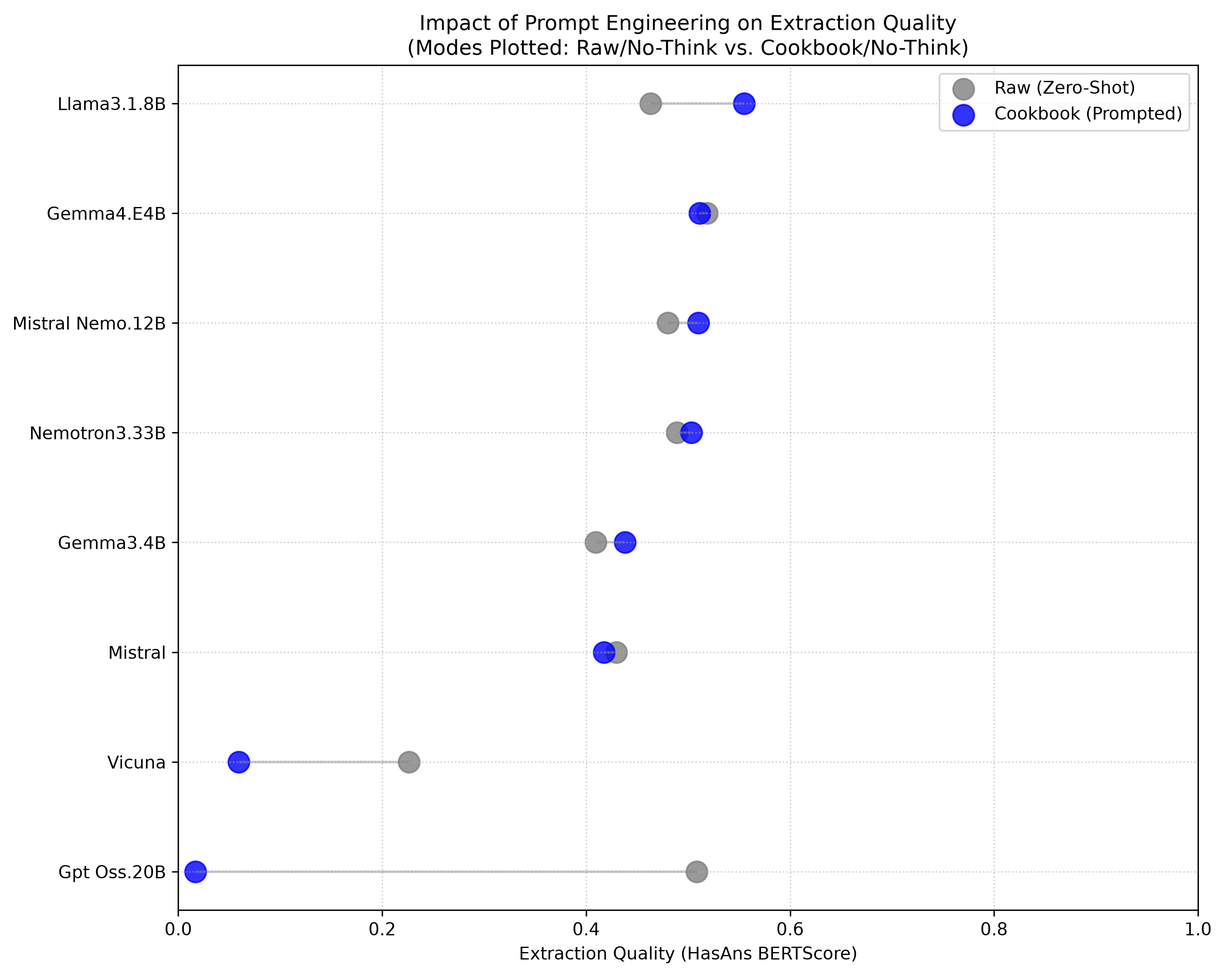
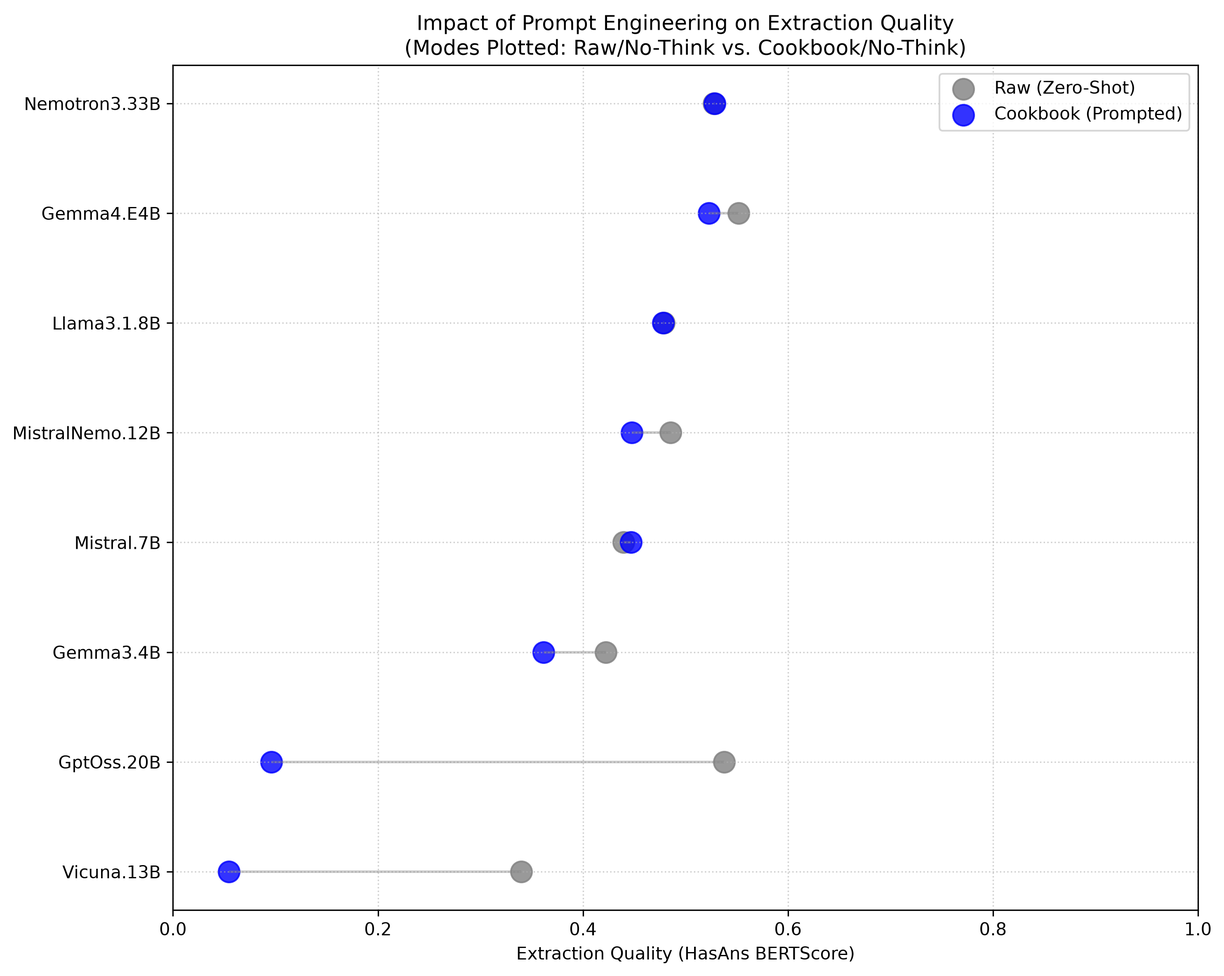
Refresh evaluation report and figures

diff --git a/evaluation/evaluation_report.md b/evaluation/evaluation_report.md
@@ -1,91 +1,91 @@
 # LLM Evaluation Report
 **Total Models Evaluated:** 8
 **Total Documents Processed:** 1860
-**Full Evaluation Compute Time:** 310.71 seconds
+**Full Evaluation Compute Time:** 1333.02 seconds
 
 ## Part 1: Global Benchmark Leaderboard (SQuAD 2.0 Evaluation)
 > *All text metrics formatted as (Overall / HasAns)*
 
-| Model            | Method        |   Doc Count |   Abstention (NoAns) |   Missed Answer Rate | Span F1 (Overall / HasAns)   | Labeled Span F1 (Overall / HasAns)   | SQuAD Token F1 (Overall / HasAns)   | BERTScore (Overall / HasAns)   |
-|:-----------------|:--------------|------------:|---------------------:|---------------------:|:-----------------------------|:-------------------------------------|:------------------------------------|:-------------------------------|
-| Gpt Oss.20B      | Raw (T)       |        1860 |                 0.01 |                 0    | 0.19 / 0.38                  | 0.19 / 0.38                          | 0.25 / 0.49                         | 0.26 / 0.51                    |
-|                  | Raw (NT)      |        1860 |                 0.64 |                 0.02 | 0.51 / 0.38                  | 0.51 / 0.38                          | 0.56 / 0.49                         | 0.57 / 0.51                    |
-|                  | Cookbook (T)  |        1860 |                 0    |                 0    | 0.00 / 0.01                  | 0.00 / 0.01                          | 0.00 / 0.01                         | 0.01 / 0.01                    |
-|                  | Cookbook (NT) |        1860 |                 0    |                 0    | 0.00 / 0.01                  | 0.00 / 0.01                          | 0.01 / 0.01                         | 0.01 / 0.02                    |
-| Gemma4.E4B       | Raw (T)       |        1860 |                 0.01 |                 0    | 0.19 / 0.37                  | 0.19 / 0.37                          | 0.24 / 0.48                         | 0.25 / 0.50                    |
-|                  | Raw (NT)      |        1860 |                 0.66 |                 0.04 | 0.53 / 0.39                  | 0.53 / 0.39                          | 0.58 / 0.51                         | 0.59 / 0.52                    |
-|                  | Cookbook (T)  |        1860 |                 0    |                 0    | 0.18 / 0.36                  | 0.18 / 0.36                          | 0.24 / 0.48                         | 0.24 / 0.49                    |
-|                  | Cookbook (NT) |        1860 |                 0    |                 0    | 0.19 / 0.39                  | 0.19 / 0.39                          | 0.25 / 0.50                         | 0.25 / 0.51                    |
-| Mistral Nemo.12B | Raw (NT)      |        1860 |                 0.59 |                 0.06 | 0.48 / 0.37                  | 0.48 / 0.37                          | 0.52 / 0.46                         | 0.54 / 0.48                    |
-|                  | Cookbook (NT) |        1860 |                 0.67 |                 0.08 | 0.52 / 0.38                  | 0.52 / 0.37                          | 0.58 / 0.49                         | 0.59 / 0.51                    |
-| Llama3.1.8B      | Raw (NT)      |        1860 |                 0.31 |                 0    | 0.33 / 0.35                  | 0.33 / 0.35                          | 0.38 / 0.44                         | 0.39 / 0.46                    |
-|                  | Cookbook (NT) |        1860 |                 0.02 |                 0    | 0.22 / 0.41                  | 0.21 / 0.40                          | 0.28 / 0.53                         | 0.29 / 0.55                    |
-| Mistral          | Raw (NT)      |        1860 |                 0.53 |                 0.05 | 0.43 / 0.32                  | 0.43 / 0.32                          | 0.47 / 0.41                         | 0.48 / 0.43                    |
-|                  | Cookbook (NT) |        1860 |                 0.38 |                 0.02 | 0.34 / 0.31                  | 0.34 / 0.31                          | 0.39 / 0.41                         | 0.40 / 0.42                    |
-| Gemma3.4B        | Raw (NT)      |        1860 |                 0.01 |                 0    | 0.15 / 0.30                  | 0.15 / 0.30                          | 0.20 / 0.39                         | 0.21 / 0.41                    |
-|                  | Cookbook (NT) |        1860 |                 0    |                 0    | 0.16 / 0.33                  | 0.16 / 0.33                          | 0.21 / 0.42                         | 0.22 / 0.44                    |
-| Vicuna           | Raw (NT)      |        1860 |                 0.48 |                 0.07 | 0.33 / 0.18                  | 0.33 / 0.18                          | 0.36 / 0.23                         | 0.35 / 0.23                    |
-|                  | Cookbook (NT) |        1860 |                 0.02 |                 0.01 | 0.03 / 0.04                  | 0.02 / 0.03                          | 0.04 / 0.07                         | 0.04 / 0.06                    |
-| Nemotron3.33B    | Raw (T)       |        1860 |                 0    |                 0    | 0.00 / 0.00                  | 0.00 / 0.00                          | 0.00 / 0.00                         | 0.00 / 0.00                    |
-|                  | Raw (NT)      |        1860 |                 0.66 |                 0.06 | 0.52 / 0.38                  | 0.52 / 0.38                          | 0.57 / 0.47                         | 0.57 / 0.49                    |
-|                  | Cookbook (T)  |        1860 |                 0    |                 0    | 0.18 / 0.36                  | 0.18 / 0.36                          | 0.25 / 0.50                         | 0.25 / 0.50                    |
-|                  | Cookbook (NT) |        1860 |                 0.01 |                 0    | 0.18 / 0.36                  | 0.18 / 0.36                          | 0.25 / 0.50                         | 0.25 / 0.50                    |
+| Model           | Method        |   Doc Count |   Abstention (NoAns) |   Missed Answer Rate | Span F1 (Overall / HasAns)   | Labeled Span F1 (Overall / HasAns)   | SQuAD Token F1 (Overall / HasAns)   | BERTScore (Overall / HasAns)   |
+|:----------------|:--------------|------------:|---------------------:|---------------------:|:-----------------------------|:-------------------------------------|:------------------------------------|:-------------------------------|
+| Gemma4.E4B      | Raw (T)       |        1860 |                 0.68 |                 0.04 | 0.58 / 0.48                  | 0.57 / 0.46                          | 0.61 / 0.54                         | 0.61 / 0.54                    |
+|                 | Raw (NT)      |        1860 |                 0.4  |                 0.01 | 0.44 / 0.49                  | 0.43 / 0.47                          | 0.48 / 0.55                         | 0.48 / 0.55                    |
+|                 | Cookbook (T)  |        1860 |                 0.5  |                 0.02 | 0.47 / 0.44                  | 0.46 / 0.42                          | 0.50 / 0.50                         | 0.50 / 0.50                    |
+|                 | Cookbook (NT) |        1860 |                 0.48 |                 0.02 | 0.47 / 0.46                  | 0.46 / 0.45                          | 0.50 / 0.52                         | 0.50 / 0.52                    |
+| Nemotron3.33B   | Raw (T)       |        1860 |                 0.58 |                 0.01 | 0.52 / 0.45                  | 0.51 / 0.44                          | 0.55 / 0.53                         | 0.56 / 0.54                    |
+|                 | Raw (NT)      |        1860 |                 0.38 |                 0.01 | 0.42 / 0.46                  | 0.41 / 0.44                          | 0.45 / 0.53                         | 0.45 / 0.53                    |
+|                 | Cookbook (T)  |        1860 |                 0.67 |                 0.02 | 0.55 / 0.43                  | 0.54 / 0.42                          | 0.58 / 0.50                         | 0.58 / 0.50                    |
+|                 | Cookbook (NT) |        1860 |                 0.56 |                 0.01 | 0.51 / 0.45                  | 0.50 / 0.44                          | 0.54 / 0.53                         | 0.54 / 0.53                    |
+| GptOss.20B      | Raw (T)       |        1860 |                 0.65 |                 0.02 | 0.55 / 0.45                  | 0.55 / 0.45                          | 0.58 / 0.51                         | 0.59 / 0.54                    |
+|                 | Raw (NT)      |        1860 |                 0.63 |                 0.01 | 0.54 / 0.45                  | 0.54 / 0.44                          | 0.57 / 0.51                         | 0.58 / 0.54                    |
+|                 | Cookbook (T)  |        1860 |                 0.63 |                 0.02 | 0.36 / 0.08                  | 0.33 / 0.02                          | 0.36 / 0.10                         | 0.36 / 0.09                    |
+|                 | Cookbook (NT) |        1860 |                 0.65 |                 0.02 | 0.36 / 0.08                  | 0.33 / 0.02                          | 0.38 / 0.10                         | 0.37 / 0.10                    |
+| MistralNemo.12B | Raw (NT)      |        1860 |                 0.57 |                 0.04 | 0.50 / 0.43                  | 0.50 / 0.42                          | 0.52 / 0.47                         | 0.53 / 0.49                    |
+|                 | Cookbook (NT) |        1860 |                 0.55 |                 0.04 | 0.46 / 0.38                  | 0.46 / 0.37                          | 0.49 / 0.44                         | 0.50 / 0.45                    |
+| Llama3.1.8B     | Raw (NT)      |        1860 |                 0.02 |                 0    | 0.21 / 0.39                  | 0.20 / 0.38                          | 0.25 / 0.48                         | 0.25 / 0.48                    |
+|                 | Cookbook (NT) |        1860 |                 0.04 |                 0    | 0.21 / 0.39                  | 0.21 / 0.38                          | 0.26 / 0.48                         | 0.26 / 0.48                    |
+| Mistral.7B      | Raw (NT)      |        1860 |                 0.55 |                 0.06 | 0.46 / 0.38                  | 0.46 / 0.37                          | 0.49 / 0.43                         | 0.49 / 0.44                    |
+|                 | Cookbook (NT) |        1860 |                 0.52 |                 0.04 | 0.45 / 0.38                  | 0.44 / 0.37                          | 0.48 / 0.44                         | 0.48 / 0.45                    |
+| Gemma3.4B       | Raw (NT)      |        1860 |                 0.01 |                 0.03 | 0.18 / 0.34                  | 0.17 / 0.33                          | 0.21 / 0.42                         | 0.22 / 0.42                    |
+|                 | Cookbook (NT) |        1860 |                 0.1  |                 0.02 | 0.18 / 0.27                  | 0.18 / 0.27                          | 0.21 / 0.33                         | 0.23 / 0.36                    |
+| Vicuna.13B      | Raw (NT)      |        1860 |                 0.28 |                 0.03 | 0.28 / 0.29                  | 0.28 / 0.27                          | 0.31 / 0.34                         | 0.31 / 0.34                    |
+|                 | Cookbook (NT) |        1860 |                 0.01 |                 0    | 0.03 / 0.04                  | 0.02 / 0.03                          | 0.03 / 0.05                         | 0.03 / 0.05                    |
 
 ---
 
 ## Part 2: Task Complexity Breakdown
 
 ### Question 1 Leaderboard
-| Model            | Method        |   Doc Count |   Abstention (NoAns) |   Missed Answer Rate | Span F1 (Overall / HasAns)   | Labeled Span F1 (Overall / HasAns)   | SQuAD Token F1 (Overall / HasAns)   | BERTScore (Overall / HasAns)   |
-|:-----------------|:--------------|------------:|---------------------:|---------------------:|:-----------------------------|:-------------------------------------|:------------------------------------|:-------------------------------|
-| Gpt Oss.20B      | Raw (T)       |         954 |                 0.06 |                    0 | 0.38 / 0.46                  | 0.38 / 0.46                          | 0.49 / 0.59                         | 0.51 / 0.62                    |
-|                  | Raw (NT)      |         954 |                 0.03 |                    0 | 0.37 / 0.46                  | 0.37 / 0.46                          | 0.48 / 0.59                         | 0.50 / 0.62                    |
-|                  | Cookbook (T)  |         954 |                 0    |                    0 | 0.01 / 0.01                  | 0.01 / 0.01                          | 0.01 / 0.01                         | 0.01 / 0.02                    |
-|                  | Cookbook (NT) |         954 |                 0    |                    0 | 0.01 / 0.01                  | 0.01 / 0.01                          | 0.01 / 0.02                         | 0.02 / 0.02                    |
-| Gemma4.E4B       | Raw (T)       |         954 |                 0.03 |                    0 | 0.37 / 0.45                  | 0.37 / 0.45                          | 0.48 / 0.59                         | 0.49 / 0.61                    |
-|                  | Raw (NT)      |         954 |                 0.08 |                    0 | 0.40 / 0.48                  | 0.40 / 0.48                          | 0.51 / 0.62                         | 0.52 / 0.63                    |
-|                  | Cookbook (T)  |         954 |                 0    |                    0 | 0.35 / 0.44                  | 0.35 / 0.44                          | 0.46 / 0.58                         | 0.47 / 0.59                    |
-|                  | Cookbook (NT) |         954 |                 0    |                    0 | 0.37 / 0.47                  | 0.37 / 0.47                          | 0.49 / 0.61                         | 0.50 / 0.62                    |
-| Mistral Nemo.12B | Raw (NT)      |         954 |                 0.04 |                    0 | 0.37 / 0.45                  | 0.37 / 0.45                          | 0.45 / 0.55                         | 0.48 / 0.58                    |
-|                  | Cookbook (NT) |         954 |                 0.05 |                    0 | 0.35 / 0.43                  | 0.35 / 0.43                          | 0.45 / 0.55                         | 0.47 / 0.58                    |
-| Llama3.1.8B      | Raw (NT)      |         954 |                 0    |                    0 | 0.34 / 0.42                  | 0.34 / 0.42                          | 0.43 / 0.54                         | 0.45 / 0.56                    |
-|                  | Cookbook (NT) |         954 |                 0    |                    0 | 0.34 / 0.42                  | 0.34 / 0.42                          | 0.43 / 0.54                         | 0.45 / 0.56                    |
-| Mistral          | Raw (NT)      |         954 |                 0    |                    0 | 0.31 / 0.39                  | 0.31 / 0.39                          | 0.40 / 0.50                         | 0.42 / 0.52                    |
-|                  | Cookbook (NT) |         954 |                 0.02 |                    0 | 0.31 / 0.38                  | 0.31 / 0.38                          | 0.40 / 0.49                         | 0.41 / 0.51                    |
-| Gemma3.4B        | Raw (NT)      |         954 |                 0    |                    0 | 0.29 / 0.36                  | 0.29 / 0.36                          | 0.38 / 0.48                         | 0.40 / 0.50                    |
-|                  | Cookbook (NT) |         954 |                 0    |                    0 | 0.32 / 0.40                  | 0.32 / 0.40                          | 0.41 / 0.51                         | 0.43 / 0.53                    |
-| Vicuna           | Raw (NT)      |         954 |                 0    |                    0 | 0.17 / 0.22                  | 0.17 / 0.22                          | 0.23 / 0.28                         | 0.22 / 0.28                    |
-|                  | Cookbook (NT) |         954 |                 0    |                    0 | 0.02 / 0.03                  | 0.02 / 0.03                          | 0.04 / 0.05                         | 0.03 / 0.04                    |
-| Nemotron3.33B    | Raw (T)       |         954 |                 0    |                    0 | 0.00 / 0.00                  | 0.00 / 0.00                          | 0.00 / 0.00                         | 0.00 / 0.00                    |
-|                  | Raw (NT)      |         954 |                 0    |                    0 | 0.37 / 0.46                  | 0.37 / 0.46                          | 0.46 / 0.58                         | 0.47 / 0.59                    |
-|                  | Cookbook (T)  |         954 |                 0    |                    0 | 0.35 / 0.43                  | 0.35 / 0.43                          | 0.48 / 0.60                         | 0.49 / 0.61                    |
-|                  | Cookbook (NT) |         954 |                 0.04 |                    0 | 0.36 / 0.44                  | 0.36 / 0.44                          | 0.49 / 0.60                         | 0.50 / 0.61                    |
+| Model           | Method        |   Doc Count |   Abstention (NoAns) |   Missed Answer Rate | Span F1 (Overall / HasAns)   | Labeled Span F1 (Overall / HasAns)   | SQuAD Token F1 (Overall / HasAns)   | BERTScore (Overall / HasAns)   |
+|:----------------|:--------------|------------:|---------------------:|---------------------:|:-----------------------------|:-------------------------------------|:------------------------------------|:-------------------------------|
+| Gemma4.E4B      | Raw (T)       |         954 |                 0.27 |                 0    | 0.45 / 0.50                  | 0.45 / 0.50                          | 0.51 / 0.56                         | 0.50 / 0.56                    |
+|                 | Raw (NT)      |         954 |                 0.11 |                 0    | 0.42 / 0.49                  | 0.42 / 0.49                          | 0.47 / 0.56                         | 0.47 / 0.56                    |
+|                 | Cookbook (T)  |         954 |                 0.01 |                 0    | 0.36 / 0.44                  | 0.36 / 0.44                          | 0.40 / 0.50                         | 0.40 / 0.50                    |
+|                 | Cookbook (NT) |         954 |                 0.1  |                 0    | 0.40 / 0.48                  | 0.40 / 0.48                          | 0.45 / 0.54                         | 0.45 / 0.54                    |
+| Nemotron3.33B   | Raw (T)       |         954 |                 0.06 |                 0    | 0.37 / 0.45                  | 0.37 / 0.45                          | 0.43 / 0.52                         | 0.44 / 0.54                    |
+|                 | Raw (NT)      |         954 |                 0.01 |                 0    | 0.39 / 0.48                  | 0.39 / 0.48                          | 0.43 / 0.54                         | 0.43 / 0.54                    |
+|                 | Cookbook (T)  |         954 |                 0.02 |                 0    | 0.36 / 0.44                  | 0.36 / 0.44                          | 0.42 / 0.52                         | 0.42 / 0.52                    |
+|                 | Cookbook (NT) |         954 |                 0.01 |                 0    | 0.36 / 0.44                  | 0.36 / 0.44                          | 0.42 / 0.52                         | 0.42 / 0.52                    |
+| GptOss.20B      | Raw (T)       |         954 |                 0.12 |                 0    | 0.38 / 0.44                  | 0.38 / 0.44                          | 0.42 / 0.50                         | 0.45 / 0.53                    |
+|                 | Raw (NT)      |         954 |                 0.09 |                 0    | 0.37 / 0.44                  | 0.37 / 0.44                          | 0.41 / 0.49                         | 0.44 / 0.53                    |
+|                 | Cookbook (T)  |         954 |                 0    |                 0    | 0.00 / 0.01                  | 0.00 / 0.01                          | 0.01 / 0.01                         | 0.01 / 0.01                    |
+|                 | Cookbook (NT) |         954 |                 0    |                 0    | 0.01 / 0.01                  | 0.01 / 0.01                          | 0.01 / 0.01                         | 0.01 / 0.02                    |
+| MistralNemo.12B | Raw (NT)      |         954 |                 0.02 |                 0    | 0.36 / 0.45                  | 0.36 / 0.45                          | 0.40 / 0.50                         | 0.41 / 0.51                    |
+|                 | Cookbook (NT) |         954 |                 0    |                 0    | 0.31 / 0.39                  | 0.31 / 0.39                          | 0.37 / 0.46                         | 0.37 / 0.47                    |
+| Llama3.1.8B     | Raw (NT)      |         954 |                 0    |                 0    | 0.31 / 0.39                  | 0.31 / 0.39                          | 0.39 / 0.48                         | 0.38 / 0.48                    |
+|                 | Cookbook (NT) |         954 |                 0.01 |                 0    | 0.31 / 0.39                  | 0.31 / 0.39                          | 0.39 / 0.48                         | 0.38 / 0.48                    |
+| Mistral.7B      | Raw (NT)      |         954 |                 0.01 |                 0    | 0.33 / 0.41                  | 0.33 / 0.41                          | 0.37 / 0.46                         | 0.38 / 0.47                    |
+|                 | Cookbook (NT) |         954 |                 0    |                 0    | 0.33 / 0.41                  | 0.33 / 0.41                          | 0.37 / 0.47                         | 0.38 / 0.47                    |
+| Gemma3.4B       | Raw (NT)      |         954 |                 0.05 |                 0.04 | 0.28 / 0.33                  | 0.28 / 0.33                          | 0.33 / 0.41                         | 0.34 / 0.41                    |
+|                 | Cookbook (NT) |         954 |                 0    |                 0    | 0.26 / 0.32                  | 0.26 / 0.32                          | 0.32 / 0.40                         | 0.33 / 0.41                    |
+| Vicuna.13B      | Raw (NT)      |         954 |                 0.01 |                 0.01 | 0.24 / 0.29                  | 0.24 / 0.29                          | 0.27 / 0.34                         | 0.28 / 0.34                    |
+|                 | Cookbook (NT) |         954 |                 0    |                 0    | 0.02 / 0.03                  | 0.02 / 0.03                          | 0.03 / 0.04                         | 0.03 / 0.04                    |
 
 ### Question 2 Leaderboard
-| Model            | Method        |   Doc Count |   Abstention (NoAns) |   Missed Answer Rate | Span F1 (Overall / HasAns)   | Labeled Span F1 (Overall / HasAns)   | SQuAD Token F1 (Overall / HasAns)   | BERTScore (Overall / HasAns)   |
-|:-----------------|:--------------|------------:|---------------------:|---------------------:|:-----------------------------|:-------------------------------------|:------------------------------------|:-------------------------------|
-| Gemma3.4B        | Raw (NT)      |         906 |                 0.01 |                 0    | 0.01 / 0.00                  | 0.01 / 0.00                          | 0.01 / 0.00                         | 0.01 / 0.00                    |
-|                  | Cookbook (NT) |         906 |                 0    |                 0    | 0.00 / 0.00                  | 0.00 / 0.00                          | 0.00 / 0.00                         | 0.00 / 0.00                    |
-| Gemma4.E4B       | Raw (T)       |         906 |                 0    |                 0    | 0.00 / 0.00                  | 0.00 / 0.00                          | 0.00 / 0.00                         | 0.00 / 0.00                    |
-|                  | Raw (NT)      |         906 |                 0.8  |                 0.23 | 0.66 / 0.00                  | 0.66 / 0.00                          | 0.66 / 0.00                         | 0.66 / 0.00                    |
-|                  | Cookbook (T)  |         906 |                 0    |                 0    | 0.00 / 0.00                  | 0.00 / 0.00                          | 0.00 / 0.00                         | 0.00 / 0.00                    |
-|                  | Cookbook (NT) |         906 |                 0    |                 0    | 0.00 / 0.00                  | 0.00 / 0.00                          | 0.00 / 0.00                         | 0.00 / 0.00                    |
-| Gpt Oss.20B      | Raw (T)       |         906 |                 0    |                 0    | 0.00 / 0.00                  | 0.00 / 0.00                          | 0.00 / 0.00                         | 0.00 / 0.00                    |
-|                  | Raw (NT)      |         906 |                 0.79 |                 0.09 | 0.65 / 0.00                  | 0.65 / 0.00                          | 0.65 / 0.00                         | 0.65 / 0.00                    |
-|                  | Cookbook (T)  |         906 |                 0    |                 0    | 0.00 / 0.00                  | 0.00 / 0.00                          | 0.00 / 0.00                         | 0.00 / 0.00                    |
-|                  | Cookbook (NT) |         906 |                 0    |                 0    | 0.00 / 0.00                  | 0.00 / 0.00                          | 0.00 / 0.00                         | 0.00 / 0.00                    |
-| Llama3.1.8B      | Raw (NT)      |         906 |                 0.39 |                 0.02 | 0.32 / 0.00                  | 0.32 / 0.00                          | 0.32 / 0.00                         | 0.32 / 0.00                    |
-|                  | Cookbook (NT) |         906 |                 0.03 |                 0    | 0.09 / 0.36                  | 0.07 / 0.29                          | 0.11 / 0.51                         | 0.12 / 0.52                    |
-| Mistral          | Raw (NT)      |         906 |                 0.67 |                 0.3  | 0.55 / 0.00                  | 0.55 / 0.00                          | 0.55 / 0.00                         | 0.55 / 0.00                    |
-|                  | Cookbook (NT) |         906 |                 0.47 |                 0.12 | 0.38 / 0.00                  | 0.38 / 0.00                          | 0.38 / 0.00                         | 0.38 / 0.00                    |
-| Mistral Nemo.12B | Raw (NT)      |         906 |                 0.73 |                 0.34 | 0.60 / 0.00                  | 0.60 / 0.00                          | 0.60 / 0.00                         | 0.60 / 0.00                    |
-|                  | Cookbook (NT) |         906 |                 0.83 |                 0.43 | 0.70 / 0.12                  | 0.69 / 0.09                          | 0.71 / 0.19                         | 0.71 / 0.19                    |
-| Nemotron3.33B    | Raw (T)       |         906 |                 0    |                 0    | 0.00 / 0.00                  | 0.00 / 0.00                          | 0.00 / 0.00                         | 0.00 / 0.00                    |
-|                  | Raw (NT)      |         906 |                 0.83 |                 0.32 | 0.68 / 0.00                  | 0.68 / 0.00                          | 0.68 / 0.00                         | 0.68 / 0.00                    |
-|                  | Cookbook (T)  |         906 |                 0    |                 0    | 0.00 / 0.00                  | 0.00 / 0.00                          | 0.00 / 0.00                         | 0.00 / 0.00                    |
-|                  | Cookbook (NT) |         906 |                 0    |                 0    | 0.00 / 0.00                  | 0.00 / 0.00                          | 0.00 / 0.00                         | 0.00 / 0.00                    |
-| Vicuna           | Raw (NT)      |         906 |                 0.61 |                 0.37 | 0.50 / 0.00                  | 0.50 / 0.00                          | 0.50 / 0.00                         | 0.50 / 0.00                    |
-|                  | Cookbook (NT) |         906 |                 0.03 |                 0.03 | 0.04 / 0.11                  | 0.02 / 0.01                          | 0.05 / 0.16                         | 0.05 / 0.16                    |
+| Model           | Method        |   Doc Count |   Abstention (NoAns) |   Missed Answer Rate | Span F1 (Overall / HasAns)   | Labeled Span F1 (Overall / HasAns)   | SQuAD Token F1 (Overall / HasAns)   | BERTScore (Overall / HasAns)   |
+|:----------------|:--------------|------------:|---------------------:|---------------------:|:-----------------------------|:-------------------------------------|:------------------------------------|:-------------------------------|
+| GptOss.20B      | Raw (T)       |         906 |                 0.79 |                 0.09 | 0.73 / 0.50                  | 0.73 / 0.48                          | 0.75 / 0.58                         | 0.75 / 0.58                    |
+|                 | Raw (NT)      |         906 |                 0.77 |                 0.08 | 0.72 / 0.49                  | 0.71 / 0.46                          | 0.73 / 0.58                         | 0.73 / 0.57                    |
+|                 | Cookbook (T)  |         906 |                 0.79 |                 0.1  | 0.72 / 0.41                  | 0.67 / 0.08                          | 0.74 / 0.51                         | 0.74 / 0.49                    |
+|                 | Cookbook (NT) |         906 |                 0.82 |                 0.12 | 0.74 / 0.38                  | 0.68 / 0.05                          | 0.76 / 0.50                         | 0.75 / 0.46                    |
+| Nemotron3.33B   | Raw (T)       |         906 |                 0.71 |                 0.08 | 0.67 / 0.47                  | 0.66 / 0.42                          | 0.68 / 0.56                         | 0.68 / 0.55                    |
+|                 | Raw (NT)      |         906 |                 0.47 |                 0.05 | 0.46 / 0.39                  | 0.43 / 0.25                          | 0.48 / 0.48                         | 0.47 / 0.47                    |
+|                 | Cookbook (T)  |         906 |                 0.83 |                 0.13 | 0.75 / 0.36                  | 0.74 / 0.31                          | 0.76 / 0.41                         | 0.75 / 0.40                    |
+|                 | Cookbook (NT) |         906 |                 0.7  |                 0.07 | 0.67 / 0.50                  | 0.65 / 0.41                          | 0.68 / 0.58                         | 0.68 / 0.57                    |
+| Llama3.1.8B     | Raw (NT)      |         906 |                 0.03 |                 0    | 0.10 / 0.42                  | 0.08 / 0.34                          | 0.11 / 0.49                         | 0.11 / 0.49                    |
+|                 | Cookbook (NT) |         906 |                 0.05 |                 0.01 | 0.11 / 0.42                  | 0.10 / 0.32                          | 0.12 / 0.48                         | 0.13 / 0.49                    |
+| Gemma3.4B       | Raw (NT)      |         906 |                 0    |                 0    | 0.07 / 0.39                  | 0.05 / 0.29                          | 0.09 / 0.46                         | 0.08 / 0.46                    |
+|                 | Cookbook (NT) |         906 |                 0.12 |                 0.12 | 0.10 / 0.00                  | 0.10 / 0.00                          | 0.10 / 0.00                         | 0.12 / 0.12                    |
+| Gemma4.E4B      | Raw (T)       |         906 |                 0.78 |                 0.23 | 0.71 / 0.39                  | 0.69 / 0.29                          | 0.72 / 0.43                         | 0.72 / 0.43                    |
+|                 | Raw (NT)      |         906 |                 0.48 |                 0.04 | 0.47 / 0.46                  | 0.45 / 0.34                          | 0.48 / 0.50                         | 0.49 / 0.53                    |
+|                 | Cookbook (T)  |         906 |                 0.63 |                 0.13 | 0.60 / 0.43                  | 0.58 / 0.32                          | 0.61 / 0.48                         | 0.61 / 0.48                    |
+|                 | Cookbook (NT) |         906 |                 0.57 |                 0.1  | 0.54 / 0.40                  | 0.52 / 0.30                          | 0.55 / 0.44                         | 0.55 / 0.46                    |
+| MistralNemo.12B | Raw (NT)      |         906 |                 0.72 |                 0.25 | 0.65 / 0.32                  | 0.64 / 0.27                          | 0.65 / 0.37                         | 0.65 / 0.36                    |
+|                 | Cookbook (NT) |         906 |                 0.69 |                 0.25 | 0.62 / 0.31                  | 0.61 / 0.26                          | 0.63 / 0.36                         | 0.63 / 0.36                    |
+| Vicuna.13B      | Raw (NT)      |         906 |                 0.35 |                 0.12 | 0.33 / 0.27                  | 0.32 / 0.18                          | 0.34 / 0.33                         | 0.34 / 0.32                    |
+|                 | Cookbook (NT) |         906 |                 0.01 |                 0.01 | 0.03 / 0.09                  | 0.01 / 0.02                          | 0.03 / 0.11                         | 0.03 / 0.12                    |
+| Mistral.7B      | Raw (NT)      |         906 |                 0.69 |                 0.35 | 0.61 / 0.25                  | 0.60 / 0.19                          | 0.62 / 0.30                         | 0.62 / 0.30                    |
+|                 | Cookbook (NT) |         906 |                 0.65 |                 0.24 | 0.58 / 0.27                  | 0.57 / 0.21                          | 0.59 / 0.33                         | 0.59 / 0.32                    |
 
 ---
 
